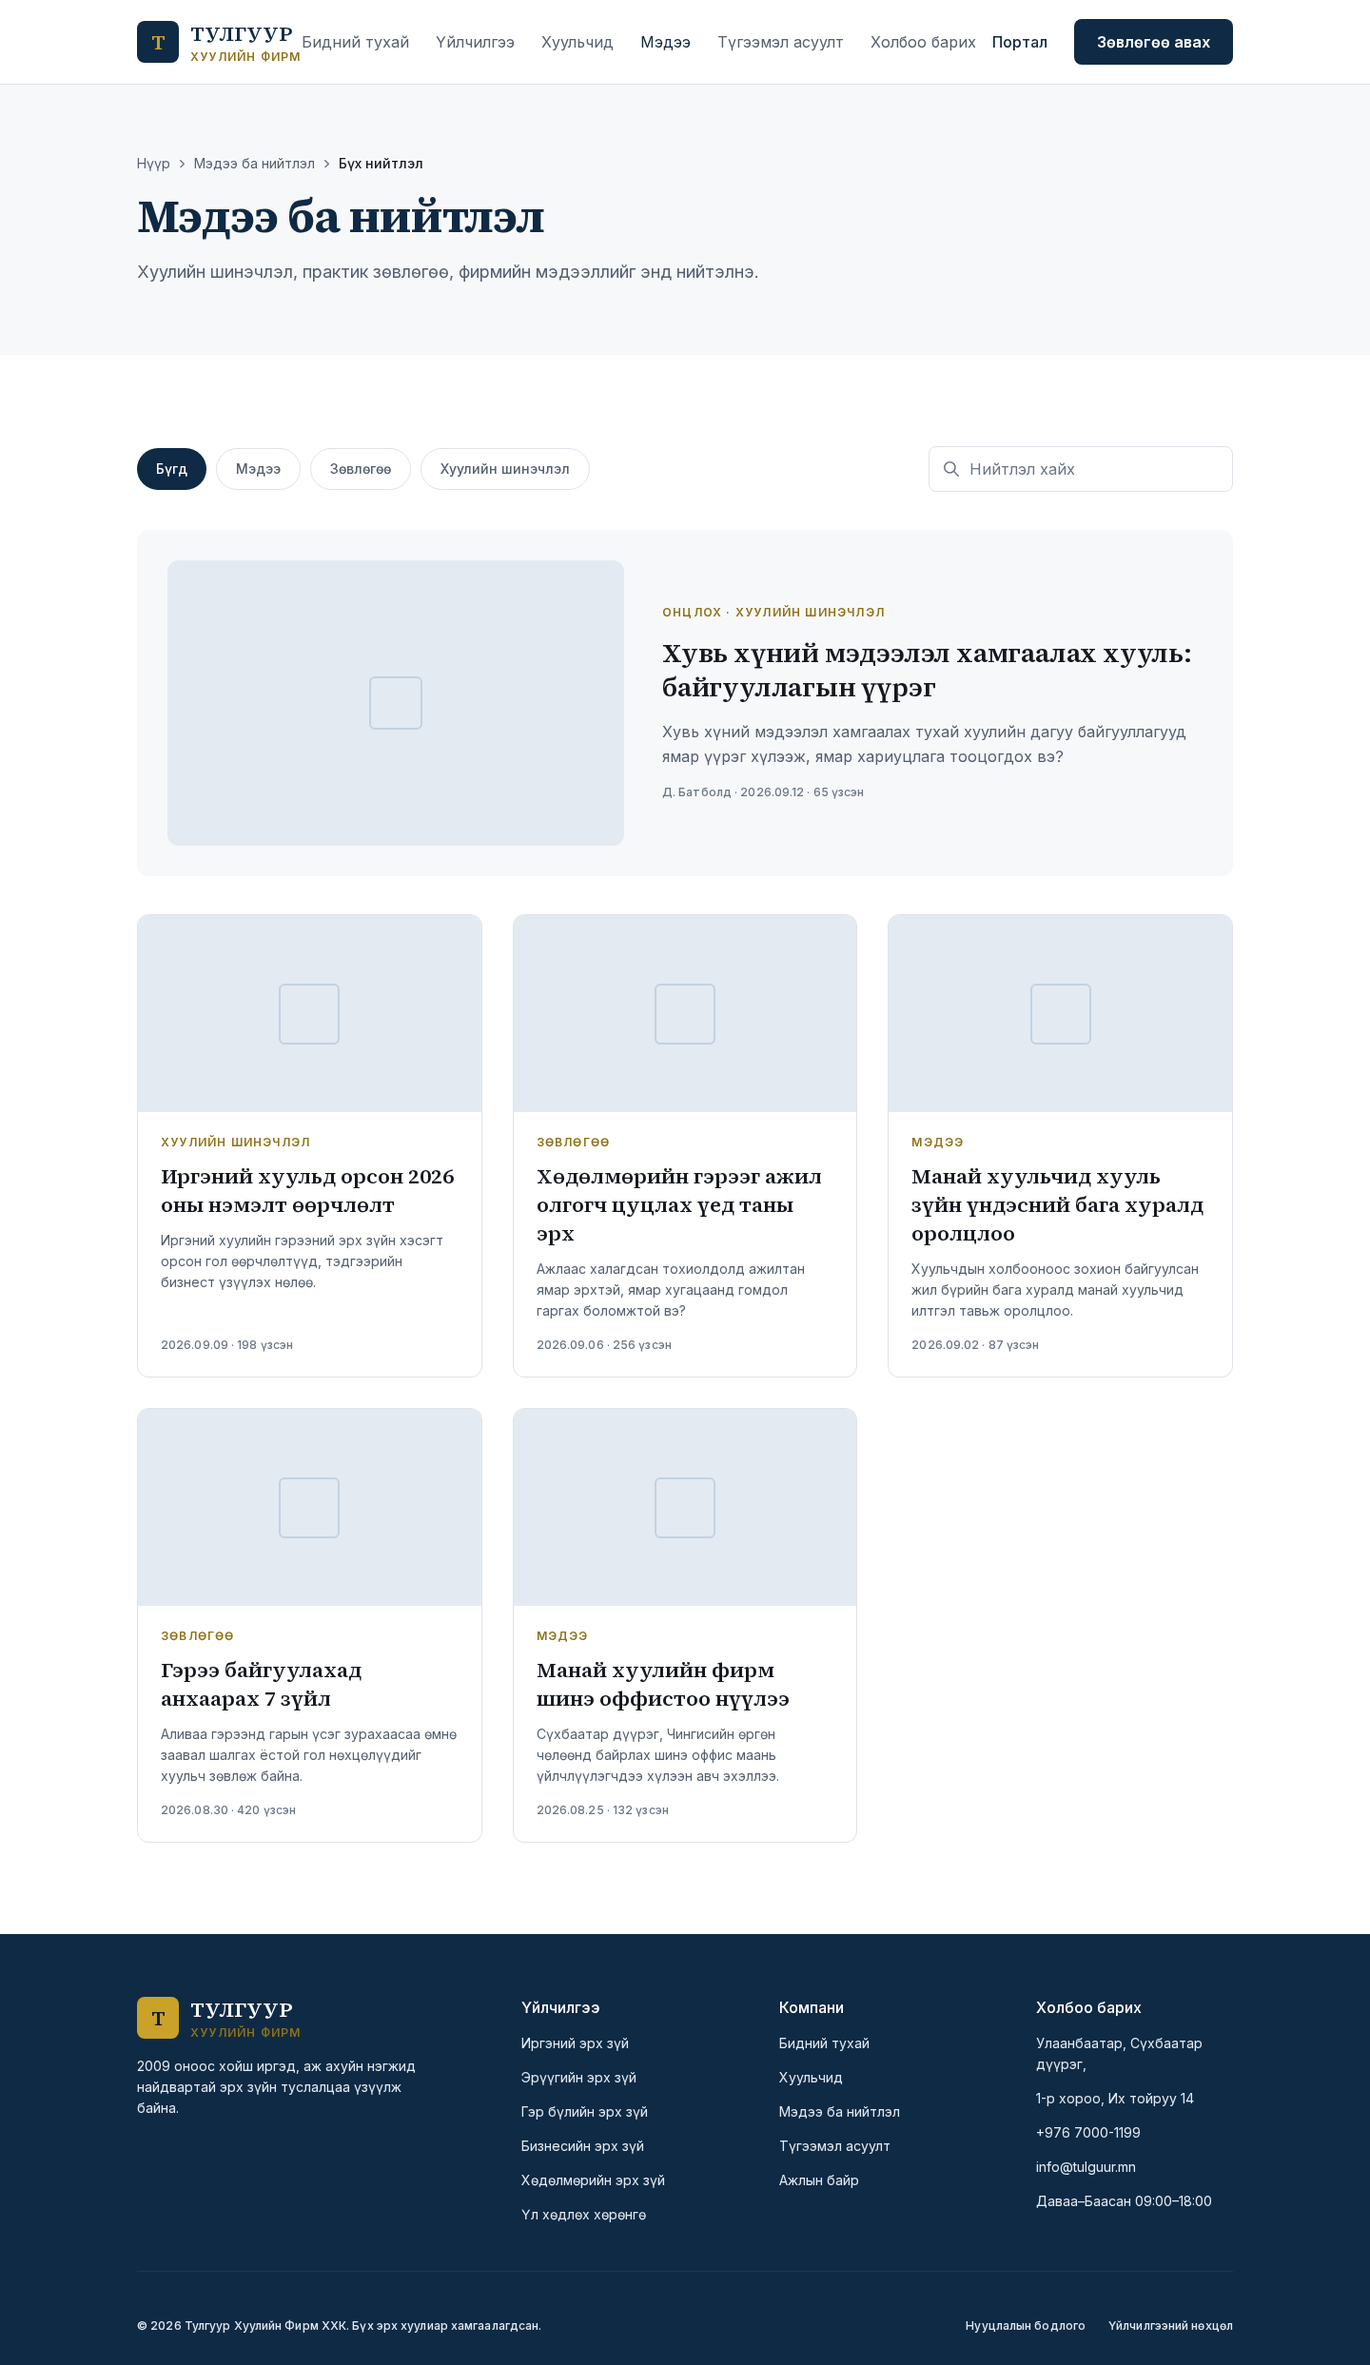
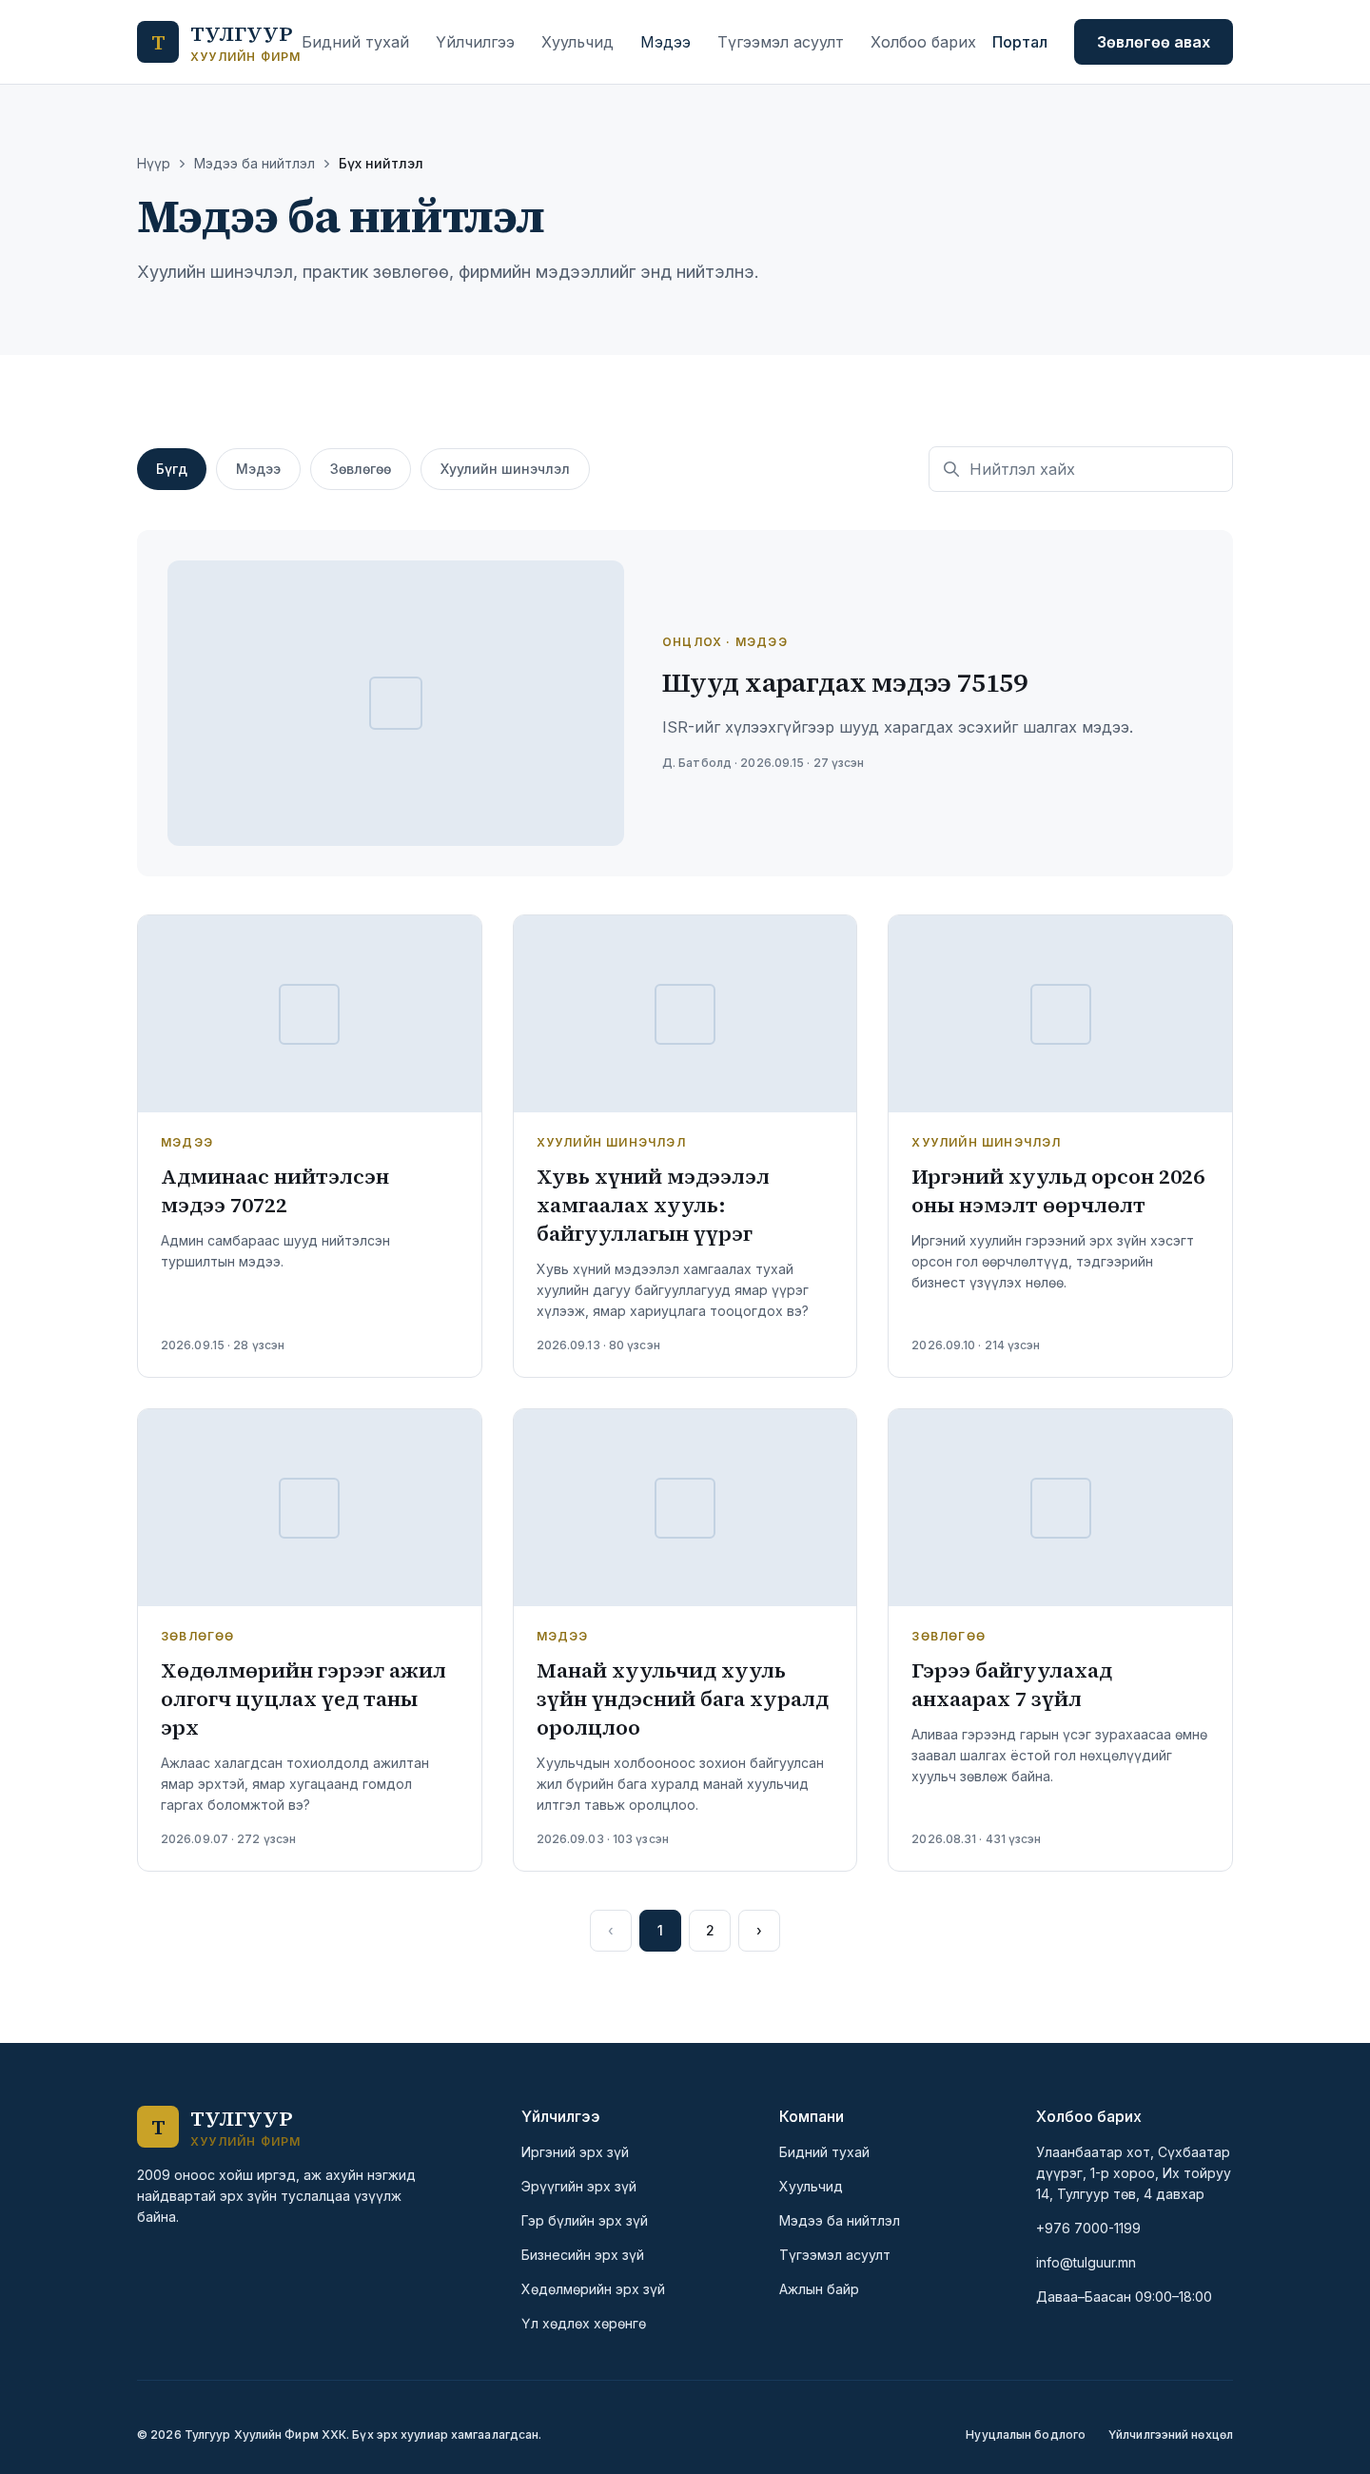
docs+test: concurrent refresh grace window and firm details — README, e2e, screenshots
README: refresh token families, rotatedAt and REFRESH_REUSE_GRACE_SECONDS in
the auth section and the env table; a «Фирмийн мэдээлэл» section (where the
details show, the tagged cache and POST /api/revalidate/firm); GET/PUT
/settings/firm rows; test counts (411 jest, 37 Playwright). Playwright: the
same refresh token sent twice gets two 200s and another session of the user
still refreshes; two tabs whose access tokens expired both stay in the
portal; ADMIN changes the firm phone (a 6-digit registration number is
refused) and the footer, the contact page, the sign-in support line and the
client's invoice «Нэхэмжлэгч» show it; GET /settings/firm works signed out,
a lawyer's PUT is 403 and the revalidation route answers 401/403. The bank
account spec now works inside its own section because the settings page has
two forms. The tasks spec opens lawyer2's «Надад оноогдсон» filtered to «Хийх»:
the list sorts by due date with undated tasks last, and earlier runs left
lawyer2 enough dated finished tasks to push the new one to page two.
Screenshots: the footer address on public pages, the firm card
on /admin/settings, «Нэхэмжлэгч» on the portal invoice detail.

Claude-Session: https://claude.ai/code/session_01CvyuQB166igy1ds2wLy2Ew

diff --git a/apps/web/e2e/settings.spec.ts b/apps/web/e2e/settings.spec.ts
@@ -1,7 +1,8 @@
-import { type APIRequestContext, expect, test } from '@playwright/test';
-import { ADMIN, CLIENT1, LAWYER1, apiAs, createCaseForClient1, login } from './fixtures';
+import { type APIRequestContext, expect, request as playwrightRequest, test } from '@playwright/test';
+import { ADMIN, API_URL, CLIENT1, LAWYER1, apiAs, createCaseForClient1, login } from './fixtures';
 
 type BankAccount = { bankName: string; accountNumber: string; accountName: string; updatedAt: string | null };
+type Firm = { name: string; registrationNumber: string | null; phone: string; email: string; address: string; workingHours: string; updatedAt: string | null };
 
 const inAWeek = () => new Date(Date.now() + 7 * 86_400_000).toISOString();
 
@@ -26,20 +27,22 @@ test.describe('Тохиргоо: төлбөр хүлээн авах данс', (
       await login(page, ADMIN);
       await page.getByRole('link', { name: 'Тохиргоо', exact: true }).first().click();
       await expect(page).toHaveURL(/\/admin\/settings$/);
-      const accountNumber = page.getByLabel(/^Дансны дугаар/);
+      // The page also holds the firm details form, so everything is looked up inside the account section.
+      const bankCard = page.getByRole('region', { name: 'Төлбөр хүлээн авах данс' });
+      const accountNumber = bankCard.getByLabel(/^Дансны дугаар/);
       await expect(accountNumber).toHaveValue(original.accountNumber);
 
       await accountNumber.fill('5023-ABC');
-      await page.getByRole('button', { name: 'Хадгалах' }).click();
-      await expect(page.getByText(/Дансны дугаар 6–20 оронтой тоо/)).toBeVisible();
+      await bankCard.getByRole('button', { name: 'Хадгалах' }).click();
+      await expect(bankCard.getByText(/Дансны дугаар 6–20 оронтой тоо/)).toBeVisible();
       expect(((await (await adminApi.get('/settings/bank-account')).json()) as BankAccount).accountNumber).toBe(original.accountNumber);
 
       await accountNumber.fill(original.accountNumber);
-      await page.getByLabel(/^Хүлээн авагч/).fill(newName);
-      await expect(page.getByLabel('Төлбөрийн зааврын харагдац').getByText(newName)).toBeVisible();
-      await page.getByRole('button', { name: 'Хадгалах' }).click();
+      await bankCard.getByLabel(/^Хүлээн авагч/).fill(newName);
+      await expect(bankCard.getByLabel('Төлбөрийн зааврын харагдац').getByText(newName)).toBeVisible();
+      await bankCard.getByRole('button', { name: 'Хадгалах' }).click();
       await expect(page.getByText('Данс хадгалагдлаа')).toBeVisible();
-      await expect(page.getByText(/^Сүүлд хадгалсан:/)).toBeVisible();
+      await expect(bankCard.getByText(/^Сүүлд хадгалсан:/)).toBeVisible();
 
       const client = await (await browser.newContext({ baseURL })).newPage();
       await login(client, CLIENT1);
@@ -63,6 +66,74 @@ test.describe('Тохиргоо: төлбөр хүлээн авах данс', (
     const lawyerApi = await apiAs(LAWYER1);
     const res = await lawyerApi.put('/settings/bank-account', { data: { bankName: 'Голомт банк', accountNumber: '1105123456', accountName: 'Хуурамч данс' } });
     expect(res.status()).toBe(403);
+  });
+});
+
+test.describe('Тохиргоо: фирмийн мэдээлэл', () => {
+  test('ADMIN утсыг солиход нийтийн сайтын хөл, «Холбоо барих», нэвтрэх хуудас, нэхэмжлэхийн «Нэхэмжлэгч» дээр шинэ утас гарна', async ({ page, browser, baseURL }) => {
+    const adminApi = await apiAs(ADMIN);
+    const lawyerApi = await apiAs(LAWYER1);
+    const original = (await (await adminApi.get('/settings/firm')).json()) as Firm;
+    const suffix = String(Date.now() % 10_000).padStart(4, '0');
+    const shown = `+976 9911-${suffix}`;
+    const registrationNumber = original.registrationNumber ?? '5190028';
+    try {
+      const invoice = await createDraftInvoice(lawyerApi, 'E2E фирмийн мэдээлэл', 90000, 'Фирмийн мэдээллийн шалгалт');
+      expect((await lawyerApi.patch(`/invoices/${invoice.id}`, { data: { status: 'SENT' } })).ok()).toBeTruthy();
+
+      await login(page, ADMIN);
+      await page.goto('/admin/settings');
+      const firmCard = page.getByRole('region', { name: 'Фирмийн мэдээлэл' });
+      const registration = firmCard.getByLabel(/^Регистрийн дугаар/);
+      await registration.fill('519002');
+      await firmCard.getByRole('button', { name: 'Хадгалах' }).click();
+      await expect(firmCard.getByText('Регистрийн дугаар 7 оронтой тоо байна')).toBeVisible();
+
+      await registration.fill(registrationNumber);
+      await firmCard.getByLabel(/^Утас/).fill(`9911 ${suffix}`);
+      await firmCard.getByRole('button', { name: 'Хадгалах' }).click();
+      await expect(page.getByText('Фирмийн мэдээлэл хадгалагдлаа')).toBeVisible();
+      expect(((await (await adminApi.get('/settings/firm')).json()) as Firm).phone).toBe(`9911${suffix}`);
+
+      // Server-rendered pages keep a cached copy; saving from the settings page revalidated it.
+      const visitor = await (await browser.newContext({ baseURL })).newPage();
+      await expect(async () => {
+        await visitor.goto('/contact');
+        await expect(visitor.getByRole('contentinfo').getByRole('link', { name: shown })).toBeVisible({ timeout: 2_000 });
+        await expect(visitor.getByRole('main').getByRole('link', { name: shown })).toBeVisible({ timeout: 2_000 });
+      }).toPass({ timeout: 20_000 });
+      await expect(async () => {
+        await visitor.goto('/portal/login');
+        await expect(visitor.getByText(`Асуудал гарвал: ${shown}`).first()).toBeVisible({ timeout: 2_000 });
+      }).toPass({ timeout: 20_000 });
+
+      const client = await (await browser.newContext({ baseURL })).newPage();
+      await login(client, CLIENT1);
+      await client.goto(`/portal/invoices/${invoice.id}`);
+      await expect(client.getByText('Нэхэмжлэгч')).toBeVisible();
+      await expect(client.getByText(`РД ${registrationNumber} · ${shown}`)).toBeVisible();
+    } finally {
+      const restore = { name: original.name, registrationNumber, phone: original.phone, email: original.email, address: original.address, workingHours: original.workingHours };
+      expect((await adminApi.put('/settings/firm', { data: restore })).ok()).toBeTruthy();
+      // Drop the cached public copy again so later specs and screenshots see the restored phone.
+      await page.request.post('/api/revalidate/firm');
+    }
+  });
+
+  test('GET /settings/firm нэвтрэлтгүй ажиллана; LAWYER-ийн PUT 403, кэш цэвэрлэх route зөвхөн ADMIN-д', async ({ page }) => {
+    const anonymous = await playwrightRequest.newContext({ baseURL: API_URL });
+    const firm = await anonymous.get('/settings/firm');
+    expect(firm.status()).toBe(200);
+    const details = (await firm.json()) as Firm;
+    await anonymous.dispose();
+
+    const lawyerApi = await apiAs(LAWYER1);
+    const body = { name: details.name, registrationNumber: '5190028', phone: '99110000', email: details.email, address: details.address, workingHours: details.workingHours };
+    expect((await lawyerApi.put('/settings/firm', { data: body })).status()).toBe(403);
+
+    expect((await page.request.post('/api/revalidate/firm')).status()).toBe(401);
+    await login(page, LAWYER1);
+    expect((await page.request.post('/api/revalidate/firm')).status()).toBe(403);
   });
 });
 

diff --git a/apps/web/e2e/session.spec.ts b/apps/web/e2e/session.spec.ts
@@ -1,5 +1,5 @@
-import { expect, test } from '@playwright/test';
-import { CLIENT1, login } from './fixtures';
+import { expect, request as playwrightRequest, test } from '@playwright/test';
+import { API_URL, CLIENT1, apiAs, login } from './fixtures';
 
 test.describe('Сесс', () => {
   test('access token дууссан ч refresh хүчинтэй бол портал чимээгүй сэргээгдэж нээгдэнэ', async ({ page, context }) => {
@@ -32,5 +32,41 @@ test.describe('Сесс', () => {
     await page.locator('input[name="password"]').fill(CLIENT1.password);
     await page.getByRole('button', { name: 'Нэвтрэх', exact: true }).click();
     await expect(page).toHaveURL(/\/portal$/);
+  });
+
+  test('хоёр таб нэг refresh токеныг зэрэг илгээхэд хоёулаа шинэ токен авч, хэрэглэгчийн бусад сесс хаагдахгүй', async () => {
+    const otherSession = await apiAs(CLIENT1);
+    const signIn = await playwrightRequest.newContext({ baseURL: API_URL });
+    expect((await signIn.post('/auth/login', { data: CLIENT1 })).ok()).toBeTruthy();
+    const refreshToken = (await signIn.storageState()).cookies.find((cookie) => cookie.name === 'refresh_token')?.value;
+    expect(refreshToken, 'login sets the refresh cookie').toBeTruthy();
+    await signIn.dispose();
+
+    const refreshWithSharedToken = async () => {
+      const tab = await playwrightRequest.newContext({ baseURL: API_URL, extraHTTPHeaders: { cookie: `refresh_token=${refreshToken}` } });
+      const status = (await tab.post('/auth/refresh')).status();
+      await tab.dispose();
+      return status;
+    };
+    // The first tab rotates the token; the second arrives moments later with the same, now rotated, one.
+    expect(await refreshWithSharedToken()).toBe(200);
+    expect(await refreshWithSharedToken()).toBe(200);
+    // Not treated as theft: another session of the same user still refreshes.
+    expect((await otherSession.post('/auth/refresh')).status()).toBe(200);
+    await otherSession.dispose();
+  });
+
+  test('хоёр табын access token зэрэг дуусахад хоёр таб хоёулаа порталд үлдэнэ', async ({ browser, baseURL }) => {
+    const context = await browser.newContext({ baseURL });
+    const first = await context.newPage();
+    await login(first, CLIENT1);
+    const second = await context.newPage();
+    await first.goto('about:blank');
+    await context.clearCookies({ name: 'access_token' });
+
+    await Promise.all([first.goto('/portal'), second.goto('/portal')]);
+    await expect(first.getByRole('heading', { name: /Сайн байна уу/ })).toBeVisible();
+    await expect(second.getByRole('heading', { name: /Сайн байна уу/ })).toBeVisible();
+    await context.close();
   });
 });

diff --git a/apps/web/e2e/tasks.spec.ts b/apps/web/e2e/tasks.spec.ts
@@ -56,8 +56,9 @@ test.describe('Даалгавар ба хэргийн баг', () => {
       const notifications = (await (await lawyer2Api.get('/notifications?limit=10')).json()) as { items: { title: string }[] };
       expect(notifications.items.map((item) => item.title)).toContain(`Танд даалгавар оноолоо: ${taskTitle}`);
 
-      // lawyer2 finds it under "Надад оноогдсон" and moves it TODO → IN_PROGRESS → REVIEW → DONE
-      await lawyer2Page.goto('/admin/tasks?scope=mine');
+      // lawyer2 finds it under "Надад оноогдсон" and moves it TODO → IN_PROGRESS → REVIEW → DONE.
+      // Filtered to «Хийх»: the list sorts by due date (undated last), and earlier runs leave lawyer2 many dated finished tasks.
+      await lawyer2Page.goto('/admin/tasks?scope=mine&status=TODO');
       await lawyer2Page.getByRole('link', { name: taskTitle }).filter({ visible: true }).click();
       await expect(lawyer2Page).toHaveURL(/\/admin\/tasks\/[0-9a-f-]{36}$/);
       await expect(lawyer2Page.getByRole('heading', { name: taskTitle })).toBeVisible();
